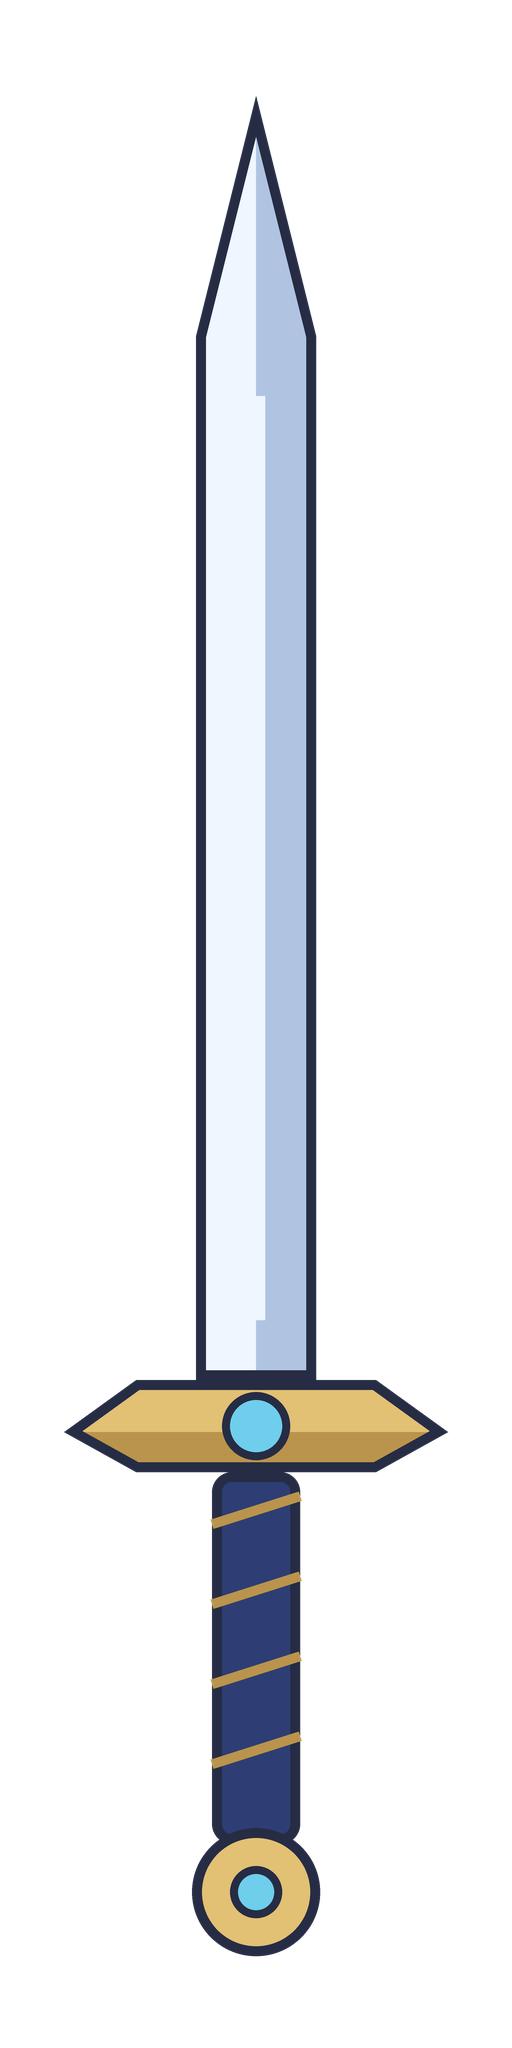
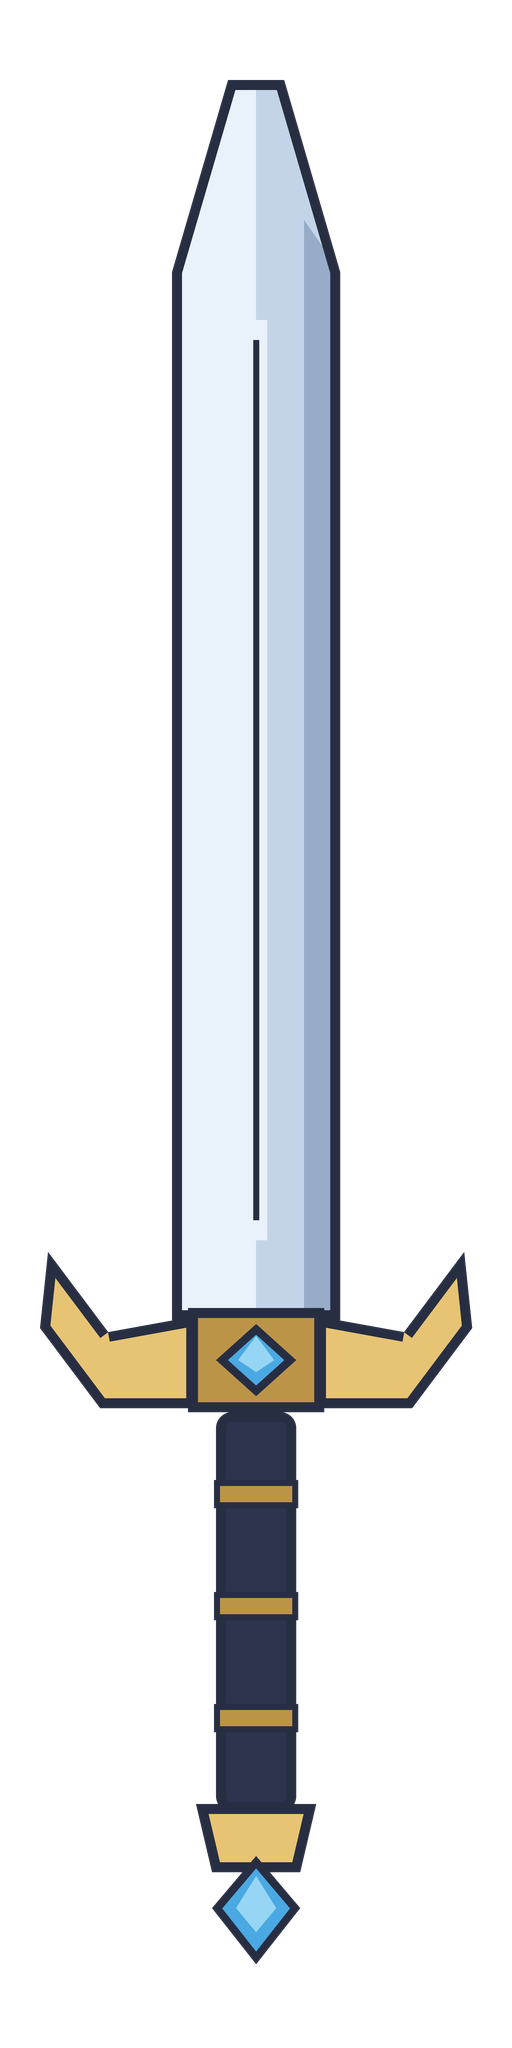
feat(art): キャラをセリア（Salia）に差し替え、剣を聖剣グランレーヴにする
assets/Chr0001/001 の設定資料に合わせた。

- 参照画像は設定資料の正面図から切り出す（popora_ref.png → salia_ref.png）
- 意匠: 長い桃色の髪・白リボン・アホ毛 / 白と金の鎧 / 青のプリーツスカート /
  焦茶のニーソックス / 青い爪先の白ブーツ
- 剣は make_sword.py を書き直し、幅広の刃・翼形の金の鍔・青い菱形の宝玉・
  金の柄頭にした

Changed region(s): [[0.0625, 0.0312, 0.9375, 0.9688]]

diff --git a/tools/comfy/make_sword.py b/tools/comfy/make_sword.py
@@ -19,16 +19,19 @@ OUT = os.path.join(HERE, 'sword.png')
 W, H = 512, 2048        # キャラの解像度が上がったので剣も倍で描く
 SS = 4                      # 4 倍で描いてから縮める（輪郭を滑らかにするため）
 
-# 色。キャラの意匠（白・紺・金・水色）に合わせる
-LINE = (38, 44, 68, 255)          # 輪郭
-STEEL_LIGHT = (238, 246, 255, 255)
-STEEL_DARK = (176, 196, 226, 255)
-GOLD = (226, 192, 116, 255)
-GOLD_DARK = (186, 148, 76, 255)
-NAVY = (46, 62, 116, 255)
-CYAN = (110, 206, 236, 255)
+# 色。設定資料（assets/Chr0001/001）の聖剣グランレーヴに合わせる
+LINE = (40, 46, 66, 255)          # 輪郭
+STEEL_LIGHT = (233, 241, 250, 255)
+STEEL_MID = (196, 212, 232, 255)
+STEEL_DARK = (150, 172, 200, 255)
+GOLD = (231, 196, 116, 255)
+GOLD_DARK = (188, 148, 72, 255)
+GOLD_LIGHT = (247, 226, 168, 255)
+NAVY = (44, 52, 78, 255)
+GEM = (74, 168, 226, 255)
+GEM_LIGHT = (150, 214, 244, 255)
 
-GRIP_Y = 0.815              # 握る位置（画像の上からの割合）
+GRIP_Y = 0.800              # 握る位置（画像の上からの割合）
 
 
 def draw(d, s):
@@ -43,47 +46,58 @@ def draw(d, s):
         return max(1, int(v * k * s))
 
     cx = 128
-    tip_y, guard_y = 48, 690
-    half = 30                                  # 刃の根元の半幅
+    tip_y, guard_y = 40, 660
+    half = 42                                  # 刃の根元の半幅。大剣なので広い
 
-    # 刃。先を尖らせた六角形
-    blade = P((cx, tip_y),
-              (cx + half, tip_y + 120),
+    # 刃。先端を斜めに切り落とした、幅の広い両刃
+    blade = P((cx - 14, tip_y), (cx + 14, tip_y),
+              (cx + half, tip_y + 96),
               (cx + half, guard_y),
               (cx - half, guard_y),
-              (cx - half, tip_y + 120))
-    d.polygon(blade, fill=STEEL_LIGHT, outline=LINE, width=LW(5))
-    # 刃の右半分を暗くして立体に見せる
-    d.polygon(P((cx, tip_y), (cx + half, tip_y + 120), (cx + half, guard_y), (cx, guard_y)),
-              fill=STEEL_DARK)
+              (cx - half, tip_y + 96))
+    d.polygon(blade, fill=STEEL_LIGHT)
+    # 右半分を暗くして厚みを見せる
+    d.polygon(P((cx, tip_y), (cx + 14, tip_y), (cx + half, tip_y + 96),
+               (cx + half, guard_y), (cx, guard_y)), fill=STEEL_MID)
+    d.polygon(P((cx + 24, tip_y + 70), (cx + half, tip_y + 96),
+               (cx + half, guard_y), (cx + 24, guard_y)), fill=STEEL_DARK)
     d.polygon(blade, outline=LINE, width=LW(5))
     # 樋（中央の溝）
-    d.line(P((cx, tip_y + 150), (cx, guard_y - 30)), fill=STEEL_LIGHT, width=LW(9))
+    d.line(P((cx, tip_y + 120), (cx, guard_y - 40)), fill=STEEL_LIGHT, width=LW(11))
+    d.line(P((cx, tip_y + 130), (cx, guard_y - 50)), fill=LINE, width=LW(3))
 
-    # 鍔。中央が厚く、両端が跳ね上がった形
-    gy0, gy1 = guard_y, guard_y + 46
-    d.polygon(P((cx - 96, gy0 + 26), (cx - 60, gy0), (cx + 60, gy0), (cx + 96, gy0 + 26),
-               (cx + 60, gy1), (cx - 60, gy1)),
+    # 鍔。両端が上へ跳ね上がった翼形
+    gy = guard_y
+    d.polygon(P((cx - 104, gy - 34), (cx - 74, gy + 6), (cx - 30, gy - 2),
+               (cx - 30, gy + 44), (cx - 78, gy + 44), (cx - 108, gy + 4)),
               fill=GOLD, outline=LINE, width=LW(5))
-    d.polygon(P((cx - 96, gy0 + 26), (cx - 60, gy1), (cx + 60, gy1), (cx + 96, gy0 + 26)),
-              fill=GOLD_DARK)
-    d.polygon(P((cx - 96, gy0 + 26), (cx - 60, gy0), (cx + 60, gy0), (cx + 96, gy0 + 26),
-               (cx + 60, gy1), (cx - 60, gy1)),
-              outline=LINE, width=LW(5))
-    # 鍔の中央の宝玉
-    d.ellipse(P((cx - 17, gy0 + 6), (cx + 17, gy0 + 40)), fill=CYAN, outline=LINE, width=LW(4))
+    d.polygon(P((cx + 104, gy - 34), (cx + 74, gy + 6), (cx + 30, gy - 2),
+               (cx + 30, gy + 44), (cx + 78, gy + 44), (cx + 108, gy + 4)),
+              fill=GOLD, outline=LINE, width=LW(5))
+    d.polygon(P((cx - 34, gy - 6), (cx + 34, gy - 6), (cx + 34, gy + 46), (cx - 34, gy + 46)),
+              fill=GOLD_DARK, outline=LINE, width=LW(5))
+    # 鍔の中央の宝玉（菱形）
+    d.polygon(P((cx, gy + 2), (cx + 20, gy + 20), (cx, gy + 38), (cx - 20, gy + 20)),
+              fill=GEM, outline=LINE, width=LW(4))
+    d.polygon(P((cx, gy + 8), (cx + 9, gy + 20), (cx, gy + 26), (cx - 9, gy + 20)),
+              fill=GEM_LIGHT)
 
-    # 柄
-    hy0, hy1 = gy1, gy1 + 186
-    d.rounded_rectangle(P((cx - 22, hy0), (cx + 22, hy1)), radius=LW(10),
+    # 柄。長めの両手持ち
+    hy0, hy1 = gy + 46, gy + 46 + 200
+    d.rounded_rectangle(P((cx - 20, hy0), (cx + 20, hy1)), radius=LW(8),
                         fill=NAVY, outline=LINE, width=LW(5))
-    for i in range(4):                          # 柄の巻き（i は拡大率 k と別物）
-        y = hy0 + 26 + i * 40
-        d.line(P((cx - 22, y), (cx + 22, y - 14)), fill=GOLD_DARK, width=LW(5))
+    for i in range(3):                          # 柄の金具（i は拡大率 k と別物）
+        y = hy0 + 34 + i * 56
+        d.rectangle(P((cx - 21, y), (cx + 21, y + 14)), fill=GOLD_DARK,
+                    outline=LINE, width=LW(3))
 
-    # 柄頭
-    d.ellipse(P((cx - 32, hy1 - 8), (cx + 32, hy1 + 56)), fill=GOLD, outline=LINE, width=LW(5))
-    d.ellipse(P((cx - 13, hy1 + 11), (cx + 13, hy1 + 37)), fill=CYAN, outline=LINE, width=LW(4))
+    # 柄頭。金の台に菱形の宝玉
+    d.polygon(P((cx - 30, hy1 - 4), (cx + 30, hy1 - 4), (cx + 22, hy1 + 30),
+               (cx - 22, hy1 + 30)), fill=GOLD, outline=LINE, width=LW(5))
+    d.polygon(P((cx, hy1 + 22), (cx + 22, hy1 + 48), (cx, hy1 + 76), (cx - 22, hy1 + 48)),
+              fill=GEM, outline=LINE, width=LW(4))
+    d.polygon(P((cx, hy1 + 32), (cx + 10, hy1 + 48), (cx, hy1 + 60), (cx - 10, hy1 + 48)),
+              fill=GEM_LIGHT)
 
 
 def main():

diff --git a/tools/comfy/run_batch.py b/tools/comfy/run_batch.py
@@ -27,12 +27,12 @@ CONFIG = os.path.join(HERE, 'config.json')
 STYLE = (
     "1girl, solo, full body, whole body visible from head to feet, "
     "front view, facing viewer, standing on the ground, "
-    # 参照画像と同じ意匠。ここを崩すと別人になる
-    "short pink hair, blue eyes, cheerful, "
-    "ornate white plate armor with gold trim, navy blue underlayer, "
-    "pauldrons with cyan gems, crescent moon emblem on skirt, white gloves, "
-    "white knee-high armored boots with gold wing motif, "
-    # 剣。crystalline と書くと青い塊になるので、素直な剣にする
+    # 設定資料（assets/Chr0001/001）のセリア。ここを崩すと別人になる
+    "long pink hair, white hair ribbon, ahoge, blue eyes, cheerful, "
+    "white plate armor with gold trim, blue accents, "
+    "white tassets with gold flame pattern, (blue pleated skirt:1.3), white frilled underskirt, "
+    "brown leather belt, brown gloves, "
+    "dark brown thighhighs, white knee-high armored boots with blue toe, "
     "empty hands, no weapon, "
     "flat cel shading, thick clean outline, "
     "(plain white background:1.3), (simple background:1.2), "
@@ -58,7 +58,7 @@ def load_config():
         'server': '127.0.0.1:8188',
         'comfy_input': r'F:\ComfyUI\ComfyUI_windows_portable\ComfyUI\input',
         'comfy_output': r'F:\ComfyUI\ComfyUI_windows_portable\ComfyUI\output',
-        'ref_image': 'popora_ref.png',
+        'ref_image': 'salia_ref.png',
     }
     if os.path.exists(CONFIG):
         with open(CONFIG, encoding='utf-8') as f:
@@ -118,7 +118,7 @@ def main():
     if not os.path.exists(ref_src):
         print('参照画像がありません:', ref_src)
         return
-    shutil.copy2(ref_src, os.path.join(inp, 'popora_ref.png'))
+    shutil.copy2(ref_src, os.path.join(inp, 'salia_ref.png'))
 
     os.makedirs(RAW, exist_ok=True)
     client_id = str(uuid.uuid4())
@@ -135,8 +135,8 @@ def main():
         prompt['2']['inputs']['text'] = positive
         prompt['3']['inputs']['text'] = NEGATIVE
         prompt['4']['inputs']['image'] = 'pose_' + it['file']
-        prompt['7']['inputs']['image'] = 'popora_ref.png'
-        prompt['13']['inputs']['filename_prefix'] = f"popora/{it['action']}_{it['frame']}"
+        prompt['7']['inputs']['image'] = 'salia_ref.png'
+        prompt['13']['inputs']['filename_prefix'] = f"salia/{it['action']}_{it['frame']}"
         prompt['11']['inputs']['seed'] = args.seed if args.seed else int(time.time() * 1000) % 2**31
 
         try:

diff --git a/tools/comfy/check_env.py b/tools/comfy/check_env.py
@@ -128,7 +128,7 @@ def main():
             ng += 1
 
     print('\n素材')
-    for f, label in (('popora_ref.png', '参照画像'), ('poses/index.json', '骨格')):
+    for f, label in (('salia_ref.png', '参照画像'), ('poses/index.json', '骨格')):
         p = os.path.join(HERE, f)
         print(f'{OK if os.path.exists(p) else NG} {label}: {f}')
         if not os.path.exists(p):
@@ -141,7 +141,7 @@ def main():
         'server': '127.0.0.1:8188',
         'comfy_input': os.path.join(comfy, 'input'),
         'comfy_output': os.path.join(comfy, 'output'),
-        'ref_image': 'popora_ref.png',
+        'ref_image': 'salia_ref.png',
     }
     if os.path.exists(CONFIG):
         try:
